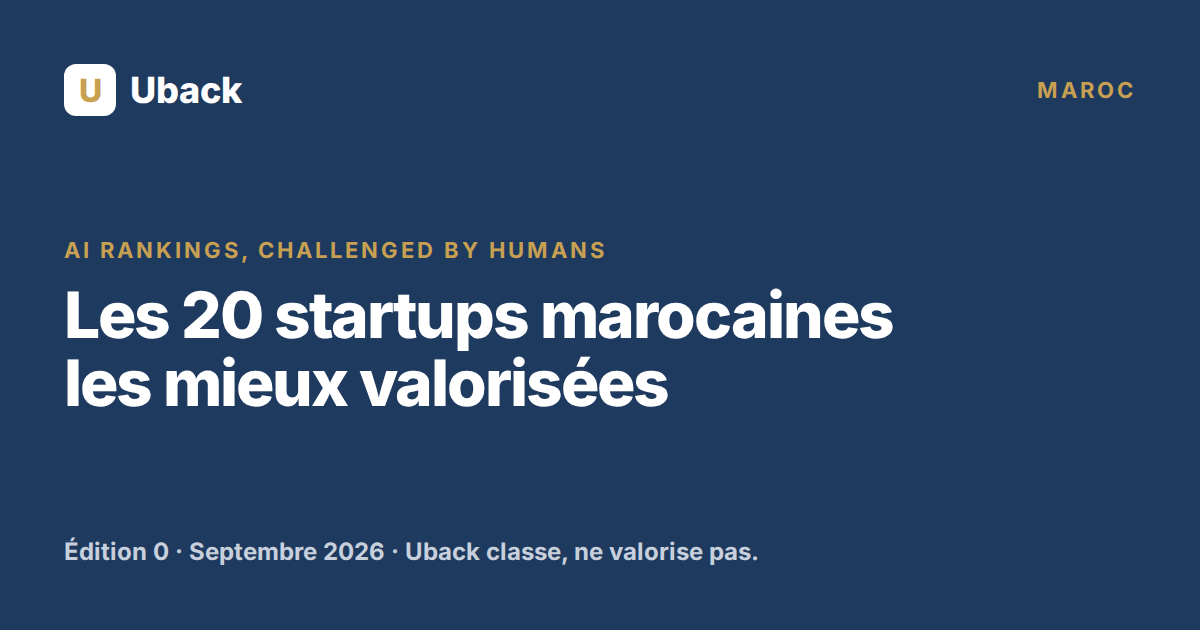
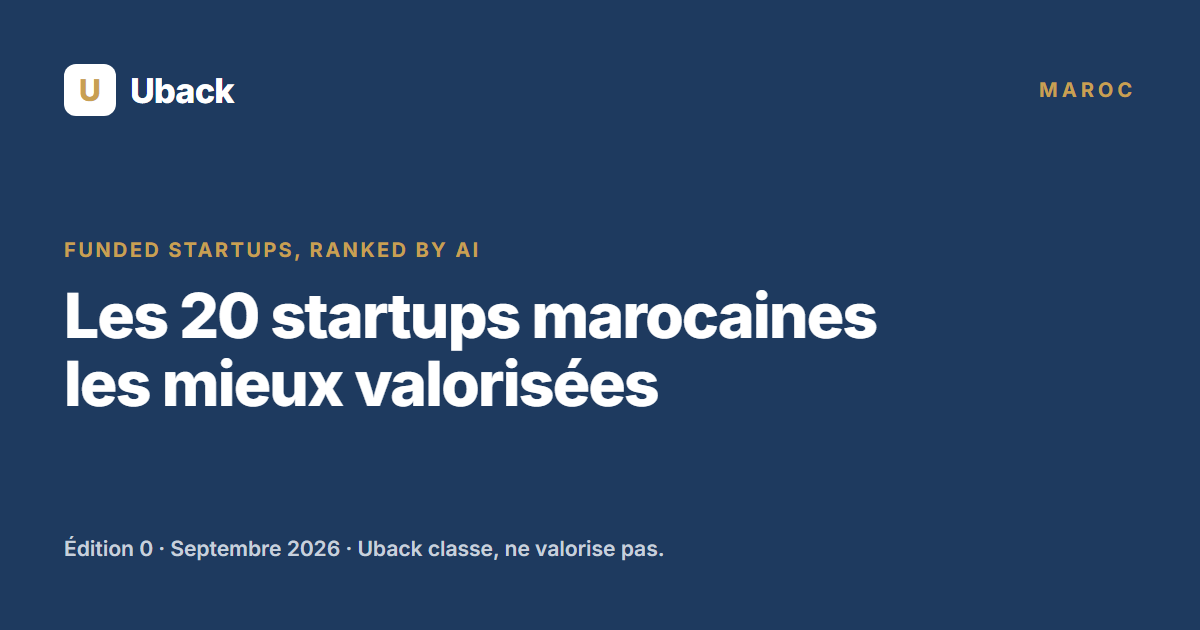
Image de partage Maroc : slogan « Funded startups, ranked by AI »
- ma/assets/og-image.png (et l'ancienne copie assets/og-image.png) refaites
  à l'identique, avec le nouveau slogan.
- og:image?v=2 pour forcer le rafraîchissement des aperçus sur les réseaux.
- tools/og-image-ma.html : source de l'image, procédure dans le README.

diff --git a/tools/og-image-ma.html b/tools/og-image-ma.html
@@ -1,0 +1,24 @@
+<!doctype html>
+<html lang="fr">
+<head>
+<meta charset="utf-8">
+<link href="https://fonts.googleapis.com/css2?family=Inter:wght@600;700;800&display=block" rel="stylesheet">
+<style>
+html,body{margin:0;width:1200px;height:630px;overflow:hidden}
+body{background:#1E3A5F;font-family:Inter,sans-serif;color:#fff;position:relative}
+.top{position:absolute;left:64px;right:64px;top:64px;height:52px;display:flex;align-items:center;justify-content:space-between}
+.logo{display:flex;align-items:center;gap:14px;font-size:34px;font-weight:800;letter-spacing:-.02em}
+.logo .u{width:52px;height:52px;border-radius:12px;background:#fff;color:#C8A052;display:flex;align-items:center;justify-content:center;font-size:30px;letter-spacing:0}
+.market{font-size:20px;font-weight:700;letter-spacing:.2em;color:#C8A052}
+.kicker{position:absolute;left:64px;top:238px;font-size:20px;font-weight:700;letter-spacing:.12em;text-transform:uppercase;color:#C8A052}
+h1{position:absolute;left:64px;top:282px;margin:0;font-size:62px;line-height:1.1;font-weight:800;letter-spacing:-.025em;width:900px}
+.foot{position:absolute;left:64px;top:536px;font-size:21px;font-weight:600;color:#C7D0DC}
+</style>
+</head>
+<body>
+<div class="top"><div class="logo"><span class="u">U</span>Uback</div><div class="market">MAROC</div></div>
+<div class="kicker">Funded startups, ranked by AI</div>
+<h1>Les 20 startups marocaines<br>les mieux valorisées</h1>
+<div class="foot">Édition 0 · Septembre 2026 · Uback classe, ne valorise pas.</div>
+</body>
+</html>

diff --git a/ma/index.html b/ma/index.html
@@ -11,7 +11,7 @@
 <meta property="og:title" content="Top 20 des startups marocaines les mieux valorisées – Septembre 2026 | Uback Maroc">
 <meta property="og:description" content="Classement mensuel des startups marocaines non cotées ayant déjà levé des fonds, établi par IA à partir d&#x27;informations publiques. Uback classe, ne valorise pas.">
 <meta property="og:url" content="https://uback.com/ma/">
-<meta property="og:image" content="https://uback.com/ma/assets/og-image.png">
+<meta property="og:image" content="https://uback.com/ma/assets/og-image.png?v=2">
 <meta property="og:locale" content="fr_FR">
 <meta name="twitter:card" content="summary_large_image">
 <link rel="icon" href="/ma/assets/favicon.svg" type="image/svg+xml">

diff --git a/ma/partenaire.html b/ma/partenaire.html
@@ -11,7 +11,7 @@
 <meta property="og:title" content="Devenir le partenaire exclusif Uback au Maroc | Uback">
 <meta property="og:description" content="Banques d&#x27;affaires, boutiques M&amp;A, conseils agréés : Uback vous apporte des investisseurs étrangers et de la visibilité, en exclusivité par pays.">
 <meta property="og:url" content="https://uback.com/ma/partenaire.html">
-<meta property="og:image" content="https://uback.com/ma/assets/og-image.png">
+<meta property="og:image" content="https://uback.com/ma/assets/og-image.png?v=2">
 <meta property="og:locale" content="fr_FR">
 <meta name="twitter:card" content="summary_large_image">
 <link rel="icon" href="/ma/assets/favicon.svg" type="image/svg+xml">

diff --git a/ma/methode.html b/ma/methode.html
@@ -11,7 +11,7 @@
 <meta property="og:title" content="Méthode et règles du jeu | Uback Maroc">
 <meta property="og:description" content="Comment Uback classe les startups : consensus d&#x27;IA, éligibilité, indice de confiance, droit de réponse. Uback classe, ne valorise pas.">
 <meta property="og:url" content="https://uback.com/ma/methode.html">
-<meta property="og:image" content="https://uback.com/ma/assets/og-image.png">
+<meta property="og:image" content="https://uback.com/ma/assets/og-image.png?v=2">
 <meta property="og:locale" content="fr_FR">
 <meta name="twitter:card" content="summary_large_image">
 <link rel="icon" href="/ma/assets/favicon.svg" type="image/svg+xml">

diff --git a/ma/mentions-legales.html b/ma/mentions-legales.html
@@ -11,7 +11,7 @@
 <meta property="og:title" content="Mentions légales | Uback">
 <meta property="og:description" content="Mentions légales du site Uback.">
 <meta property="og:url" content="https://uback.com/ma/mentions-legales.html">
-<meta property="og:image" content="https://uback.com/ma/assets/og-image.png">
+<meta property="og:image" content="https://uback.com/ma/assets/og-image.png?v=2">
 <meta property="og:locale" content="fr_FR">
 <meta name="twitter:card" content="summary_large_image">
 <link rel="icon" href="/ma/assets/favicon.svg" type="image/svg+xml">

diff --git a/ma/merci.html b/ma/merci.html
@@ -11,7 +11,7 @@
 <meta property="og:title" content="Merci | Uback Maroc">
 <meta property="og:description" content="Inscription confirmée.">
 <meta property="og:url" content="https://uback.com/ma/merci.html">
-<meta property="og:image" content="https://uback.com/ma/assets/og-image.png">
+<meta property="og:image" content="https://uback.com/ma/assets/og-image.png?v=2">
 <meta property="og:locale" content="fr_FR">
 <meta name="twitter:card" content="summary_large_image">
 <link rel="icon" href="/ma/assets/favicon.svg" type="image/svg+xml">

diff --git a/tools/build_site.py b/tools/build_site.py
@@ -32,7 +32,7 @@ def head(title, desc, path, extra=''):
 <meta property="og:title" content="{e(title)}">
 <meta property="og:description" content="{e(desc)}">
 <meta property="og:url" content="{url}">
-<meta property="og:image" content="{BASE}/assets/og-image.png">
+<meta property="og:image" content="{BASE}/assets/og-image.png?v=2">
 <meta property="og:locale" content="fr_FR">
 <meta name="twitter:card" content="summary_large_image">
 <link rel="icon" href="/assets/favicon.svg" type="image/svg+xml">

diff --git a/README.md b/README.md
@@ -28,7 +28,13 @@ ma/                     ← site Maroc, entièrement généré
   data/classement-ma-2026-09.json ← la donnée du classement (une entrée par société, source par montant)
 
 tools/build_site.py     ← génère les pages de ma/ à partir du JSON ; n'écrit jamais à la racine
+tools/og-image-ma.html  ← source de ma/assets/og-image.png (image de partage 1200×630)
 ```
+
+Image de partage : modifier `tools/og-image-ma.html` (édition, mois), la capturer en 1200×630
+(`msedge --headless=new --window-size=1200,630 --screenshot=og.png tools/og-image-ma.html`),
+la copier dans `ma/assets/og-image.png`, puis incrémenter `?v=` de `og:image` dans le générateur
+pour que les réseaux sociaux rafraîchissent leur cache.
 
 Les pages de `ma/` ne se modifient pas à la main : on modifie le JSON ou le générateur, puis on relance `python3 tools/build_site.py` (Python 3 standard, aucune dépendance). Les gabarits écrivent des liens absolus (`/methode.html`) ; le générateur les place sous `/ma`.
 
